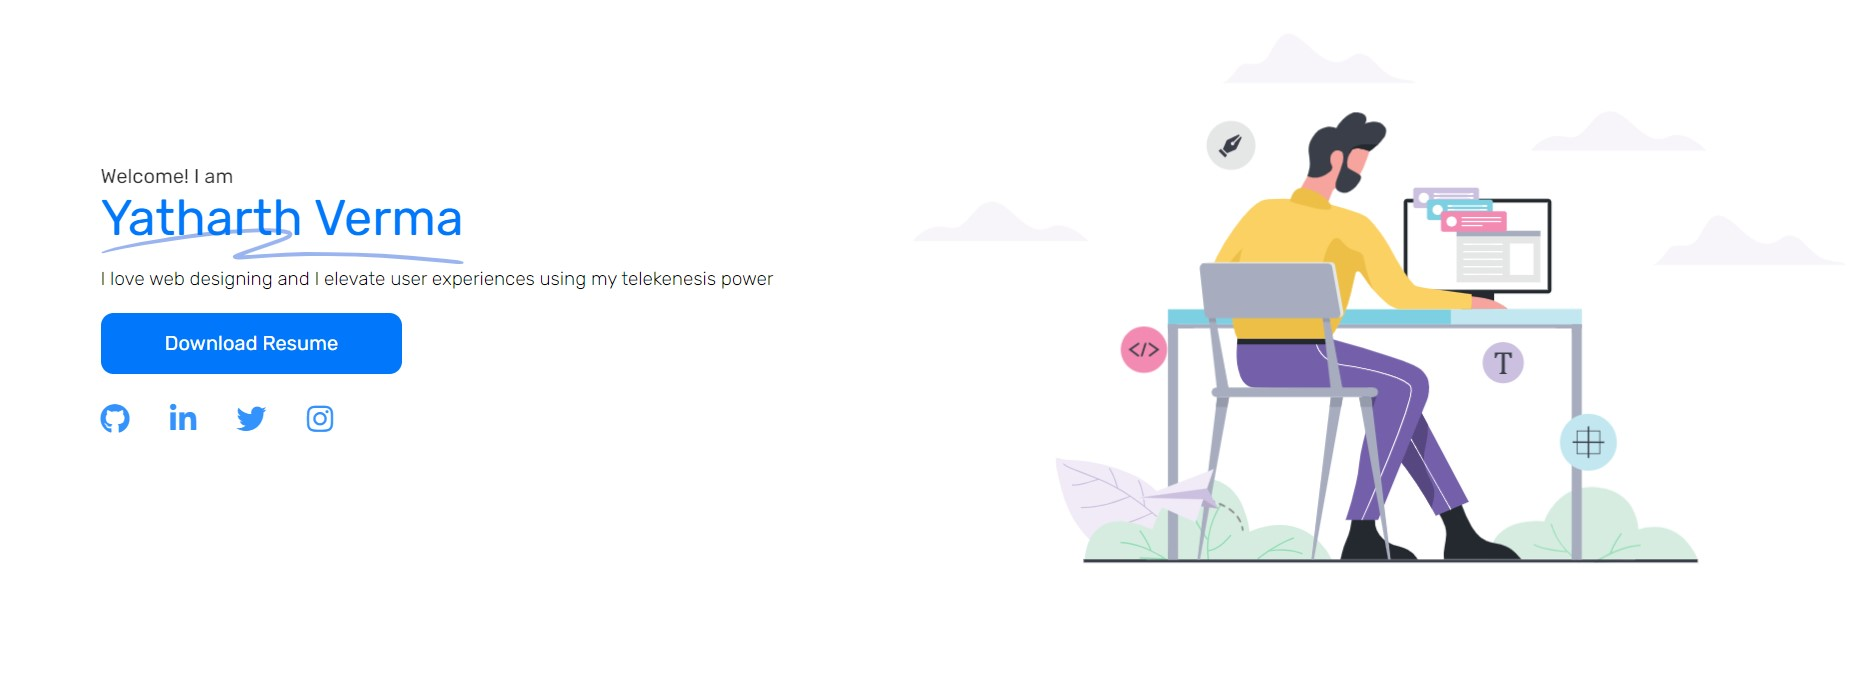
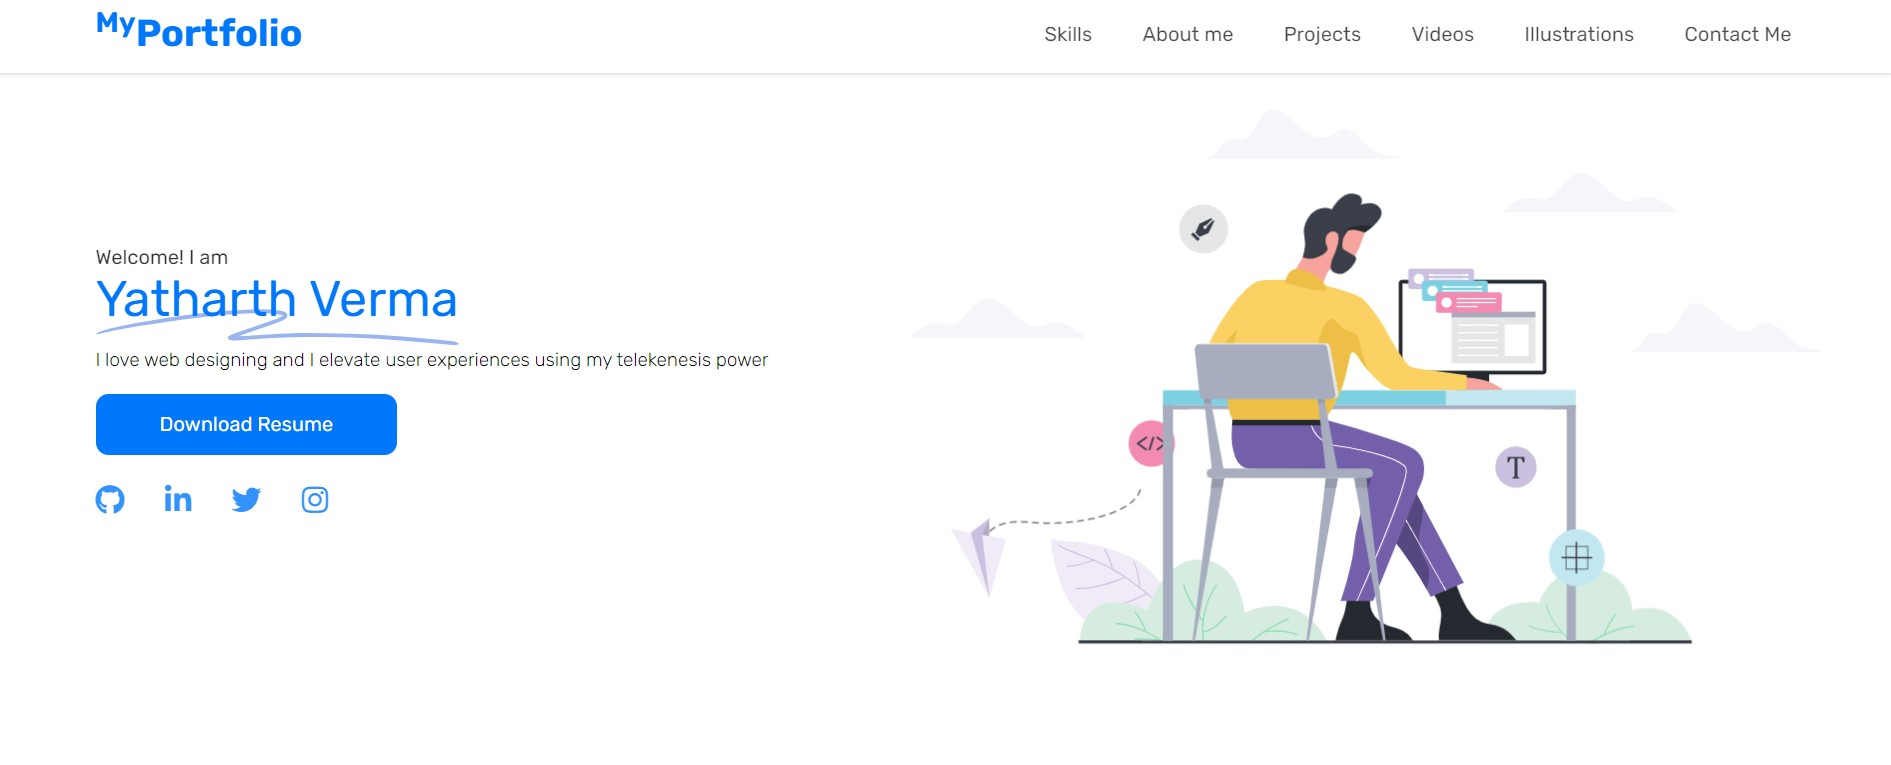
fix ui

diff --git a/src/components/Navbar.js b/src/components/Navbar.js
@@ -33,11 +33,7 @@ function Navbar() {
             Videos
           </Link>
         </li>
-        <li className="list-none cursor-pointer">
-          <Link to="myIllustrations" smooth={true}>
-            Illustrations
-          </Link>
-        </li>
+
         <li className="list-none cursor-pointer">
           <Link to="contactMe" smooth={true}>
             Contact Me
